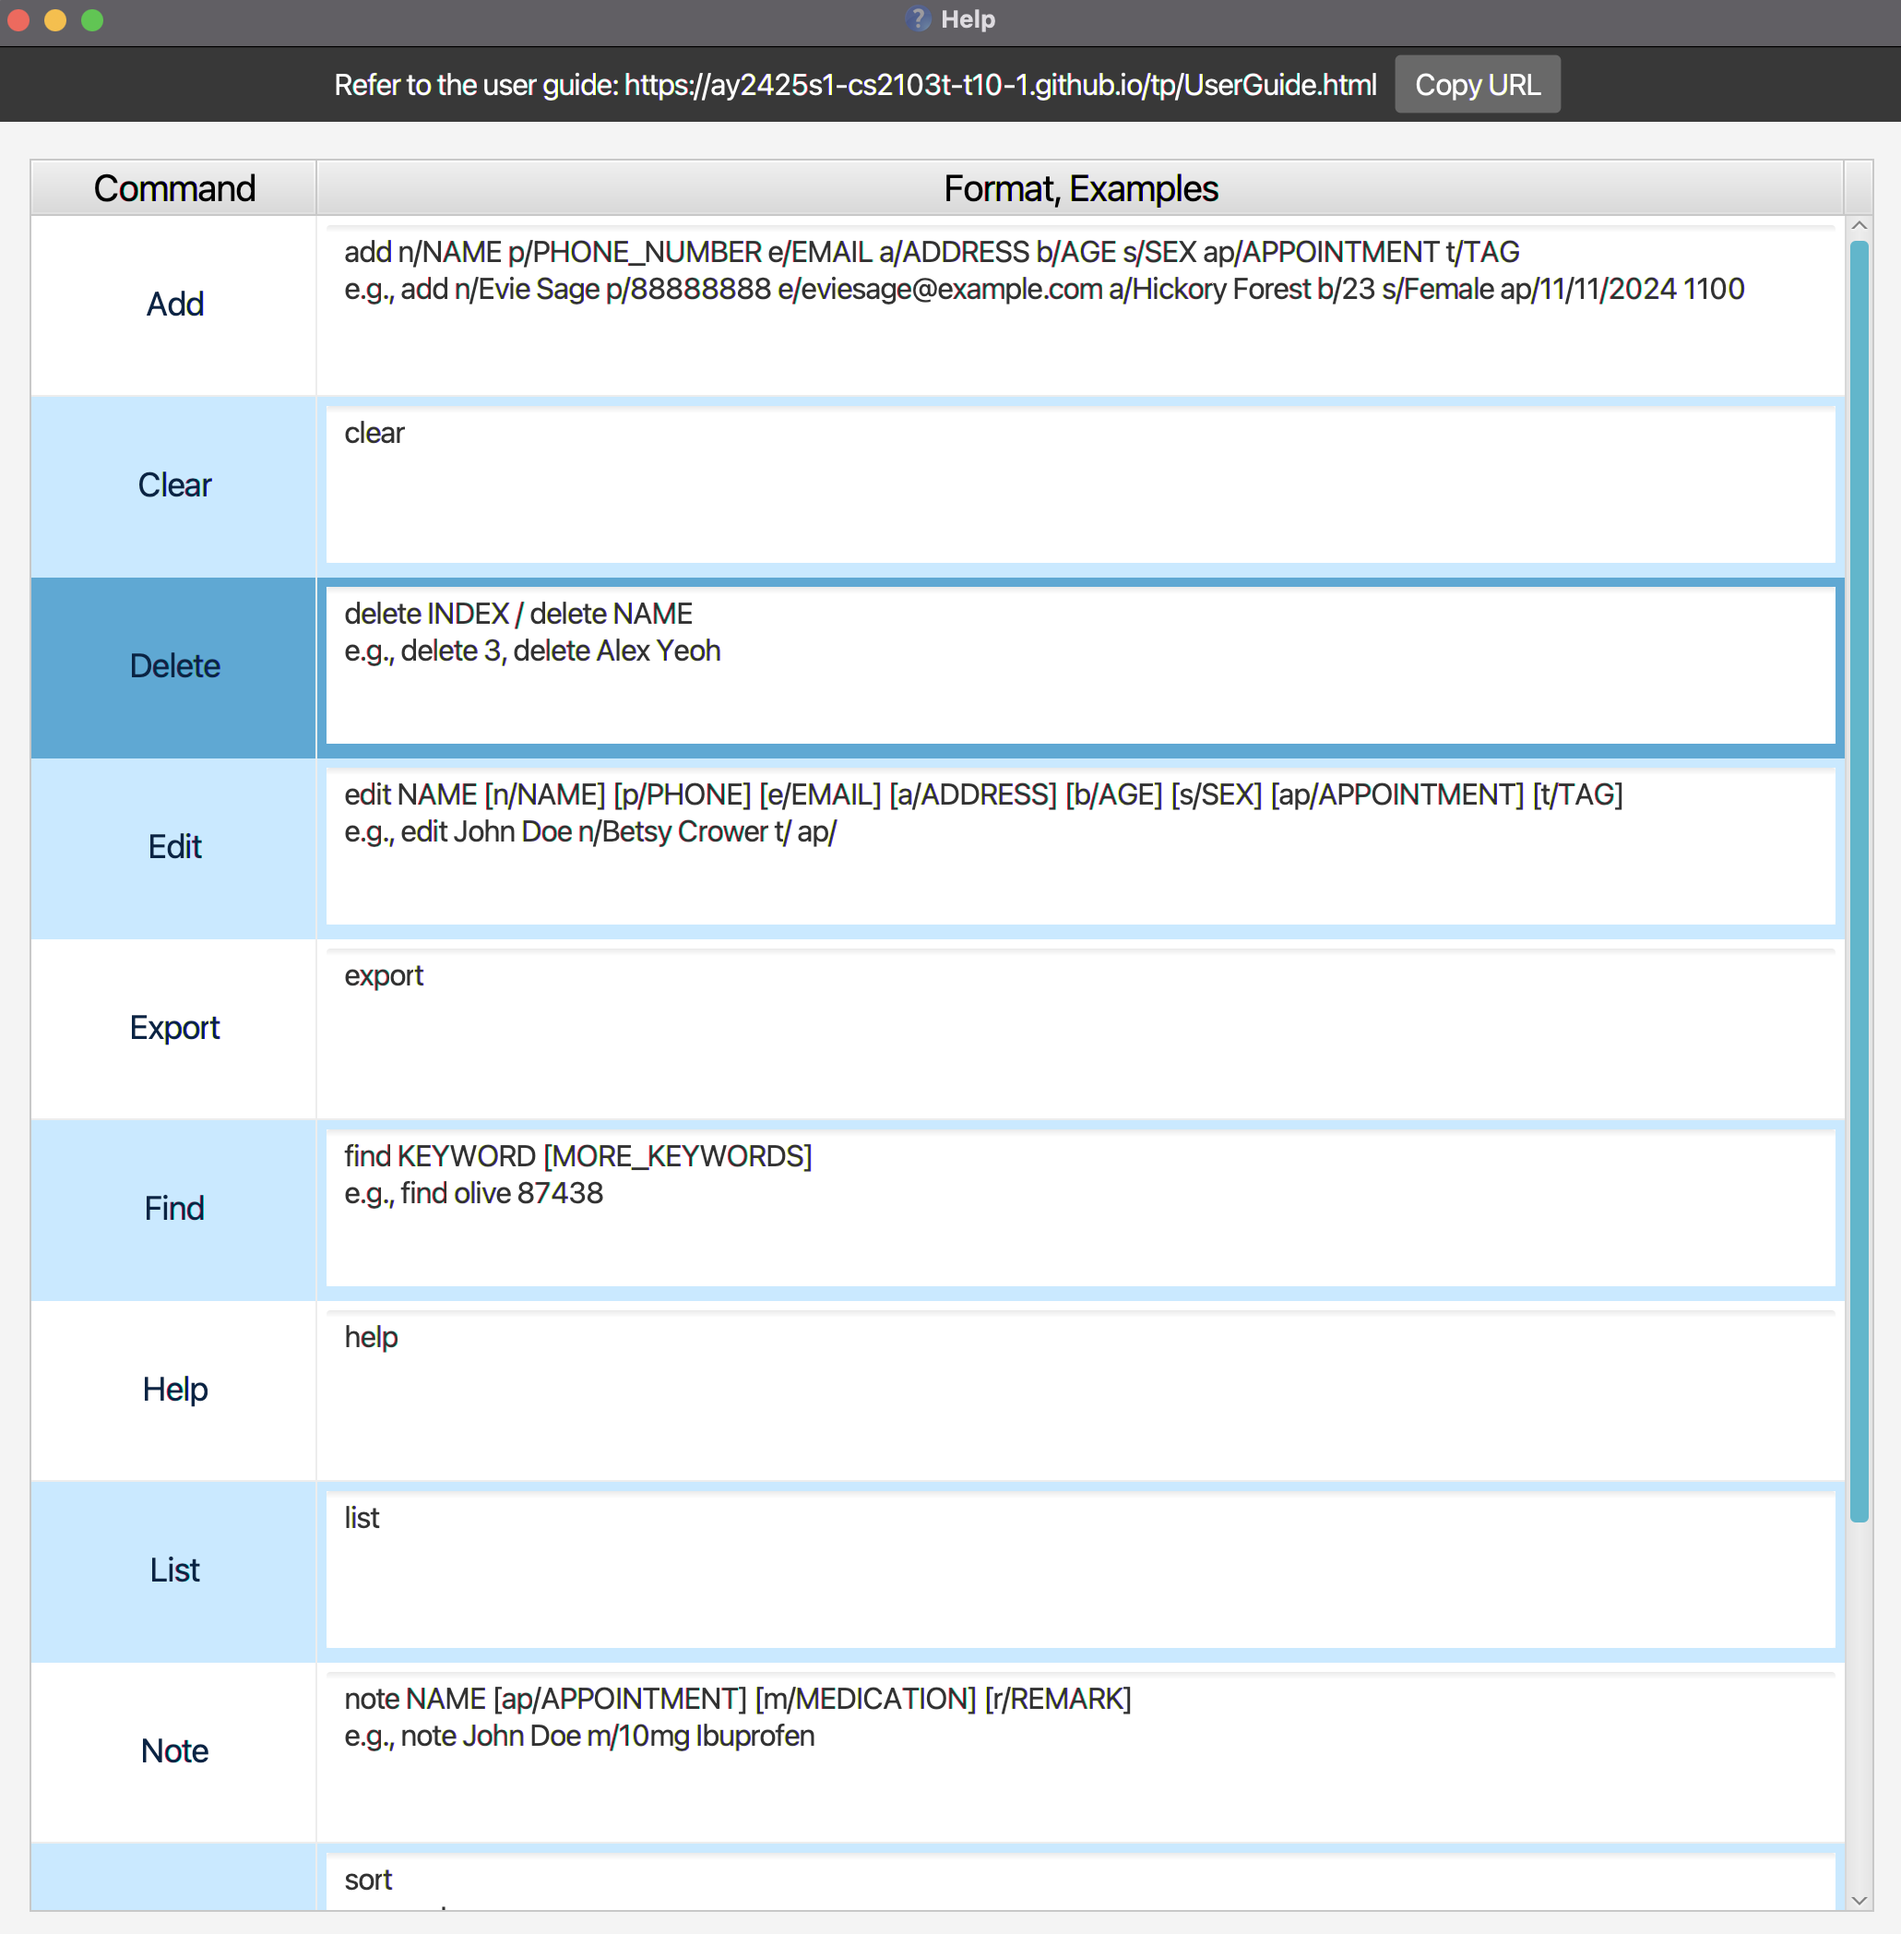
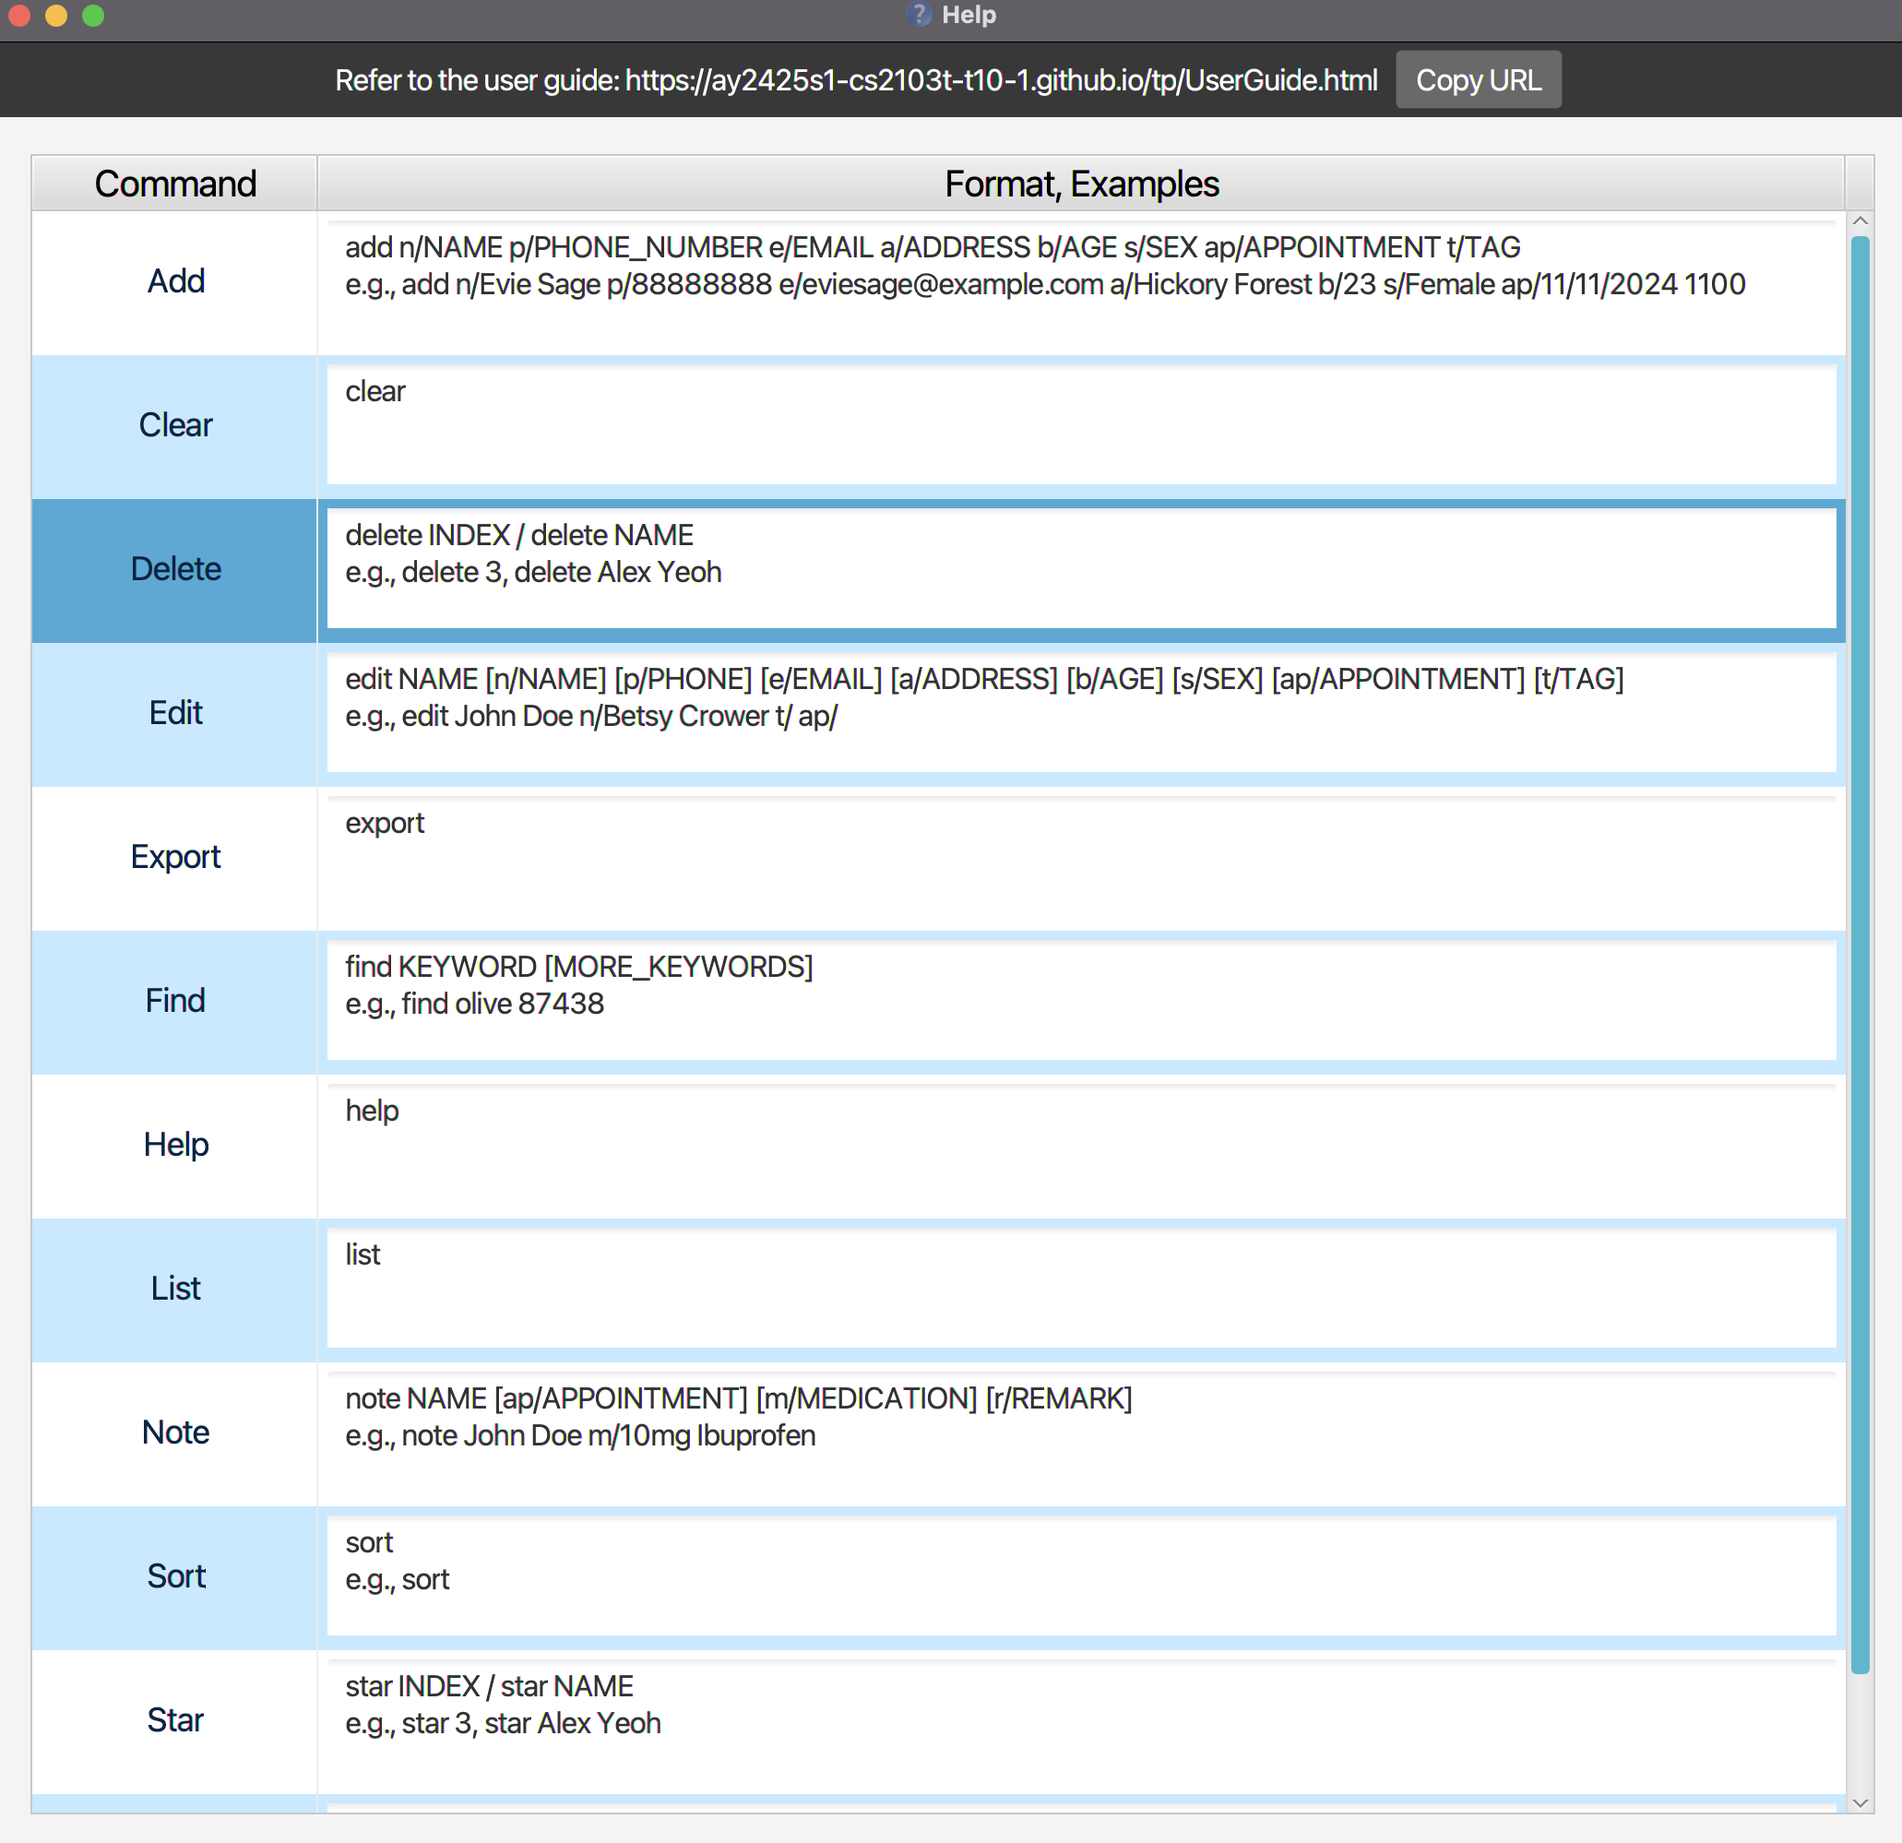
Improve UI of help window
- Expanding the window will not change the size of copy url section
- Minimise height of text area to save space

Changed region(s): [[0.0, 0.0, 0.9937, 0.993], [0.0311, 0.0621, 0.1863, 0.1241], [0.0, 0.0, 0.0621, 0.031]]

diff --git a/src/main/resources/view/HelpWindow.css b/src/main/resources/view/HelpWindow.css
@@ -27,7 +27,7 @@
 .table-view .column-header-background .label {
     -fx-padding: 2 2 2 2;
     -fx-text-fill: black;
-    -fx-font-size: 20;
+    -fx-font-size: 20; /* header */
 }
 
 .table-cell {
@@ -37,12 +37,24 @@
     -fx-font-size: 18;
 }
 
-.table-row-cell:odd {
+.table-row-cell:empty {
+    -fx-background-color: white;
+}
+
+.table-row-cell:odd:filled {
     -fx-background-color: #CAE9FF;
 }
 
-.table-row-cell:hover {
+.table-row-cell:even:filled {
+    -fx-background-color: white;
+}
+
+.table-row-cell:hover:filled {
     -fx-background-color: #5FA8D3;
+}
+
+.table-row-cell:hover:empty {
+    -fx-background-color: white;
 }
 
 .scroll-bar .thumb {

diff --git a/src/main/java/seedu/address/ui/HelpWindow.java b/src/main/java/seedu/address/ui/HelpWindow.java
@@ -185,7 +185,7 @@ public class HelpWindow extends UiPart<Stage> {
                     textArea.setText(item);
                     textArea.setWrapText(true);
                     textArea.setEditable(false);
-                    textArea.setPrefHeight(90);
+                    textArea.setPrefHeight(70);
                     textArea.setStyle("-fx-background-color: transparent; -fx-padding: 0; -fx-font-size: 16;");
                     setGraphic(textArea);
                 }
